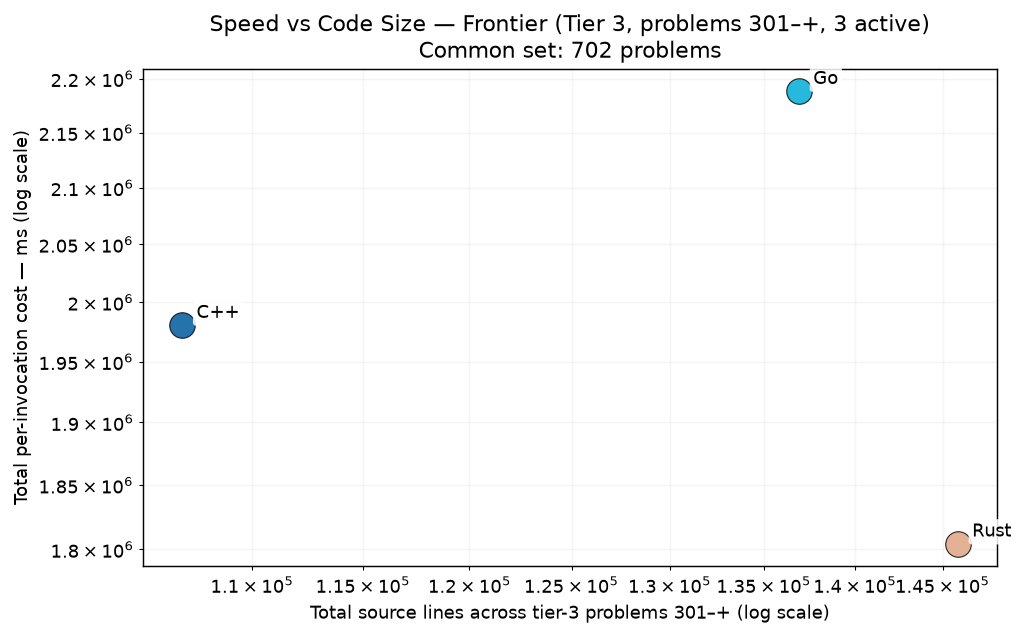
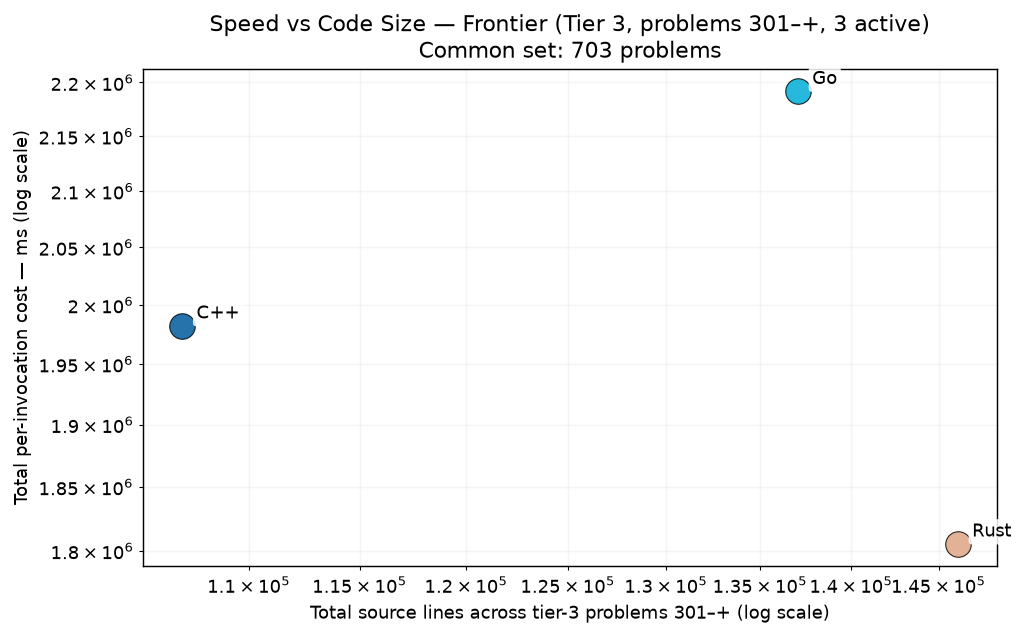
rust p0477

diff --git a/RESULTS.md b/RESULTS.md
@@ -1,6 +1,6 @@
 # Project Euler — Cross-Language Benchmarks
 
-> **Scope: 4521 in-scope cells across 1007 problems × tiered languages — 4509 measured (99.7% coverage).**
+> **Scope: 4521 in-scope cells across 1007 problems × tiered languages — 4510 measured (99.8% coverage).**
 > The cross-language ranking below is computed over the **200-problem common set** (problems in 1-200 where every language has a passing measurement) — the apples-to-apples Foundation comparison surface.  Per-tier rankings and coverage detail appear further below.
 > Growing carefully — each new problem and language is audited for state-leak
 > safety, verified for answer correctness, and added only when it cleanly fits the
@@ -70,15 +70,15 @@ Same scatter as the Foundation chart, restricted to the tier-2 active languages 
 
 The frontier verification trio — C++, Go, Rust — on problems above 300. 3-way cross-language agreement is the verification protocol (strictly stronger than 2-way; see JOURNEY.md "Tier Reframing" episode for the p254 lesson that motivated it). Python and Zig are explicitly out of this tier — python's wall cost makes it impractical at level 5+, and zig's role caps at Tier 2.
 
-### Per-Invocation Cost (Common Set, 702 of ≤707 problems in scope)
+### Per-Invocation Cost (Common Set, 703 of ≤707 problems in scope)
 
 ![Per-Invocation Cost — Tier 3](charts/per_iter_total_tier3.png)
 
-| Rank | Language | Geomean (702-problem common set) | Total (sum) | Lines of code | vs Fastest |
+| Rank | Language | Geomean (703-problem common set) | Total (sum) | Lines of code | vs Fastest |
 |------|----------|--------------------:|------------:|--------------:|-----------:|
-| 1 | **Rust** | 77.79 ms | 1804.30 s | 145,884 | 1.00× |
-| 2 | **C++** | 82.38 ms | 1980.52 s | 106,967 | 1.06× |
-| 3 | **Go** | 91.34 ms | 2188.23 s | 136,900 | 1.17× |
+| 1 | **Rust** | 78.09 ms | 1805.43 s | 146,116 | 1.00× |
+| 2 | **C++** | 82.73 ms | 1982.26 s | 107,104 | 1.06× |
+| 3 | **Go** | 91.82 ms | 2191.80 s | 137,052 | 1.18× |
 
 ### Speed vs Code Size
 
@@ -270,7 +270,7 @@ table never silently mixes versions (METHODOLOGY.md §4).  Current state of the
 | **Java** | `openjdk version "21.0.2" 2024-01-16 LTS` | 200 | 2026-07-30 |
 | **JavaScript** | `v24.18.0` | 200 | 2026-07-30 |
 | **Python** | `Python 3.14.6` | 318 | 2026-08-07 |
-| **Rust** | `rustc 1.95.0 (59807616e 2026-04-14)` | 1003 | 2026-09-11 |
+| **Rust** | `rustc 1.95.0 (59807616e 2026-04-14)` | 1004 | 2026-09-12 |
 | **Zig** | `0.15.2` | 341 | 2026-07-30 |
 
 ## Reproducibility

diff --git a/per_problem/per_problem_0401-0500.md b/per_problem/per_problem_0401-0500.md
@@ -84,7 +84,7 @@ in tier-1 display order (native → managed → interpreted).
 | **p0474** | 26.56 s | 34.90 s | 38.99 s |
 | **p0475** | 187.69 ms | 173.07 ms | 123.55 ms |
 | **p0476** | 578.39 ms | 8.02 s | 10.54 s |
-| **p0477** | 1.75 s† | — | 3.57 s |
+| **p0477** | 1.75 s† | 1.13 s | 3.57 s |
 | **p0478** | 1.13 s | 454.97 ms | 452.17 ms |
 | **p0479** | 619.90 ms | 313.96 ms | 171.03 ms |
 | **p0480** | 503.0 µs | 624.0 µs | 18.92 ms |
